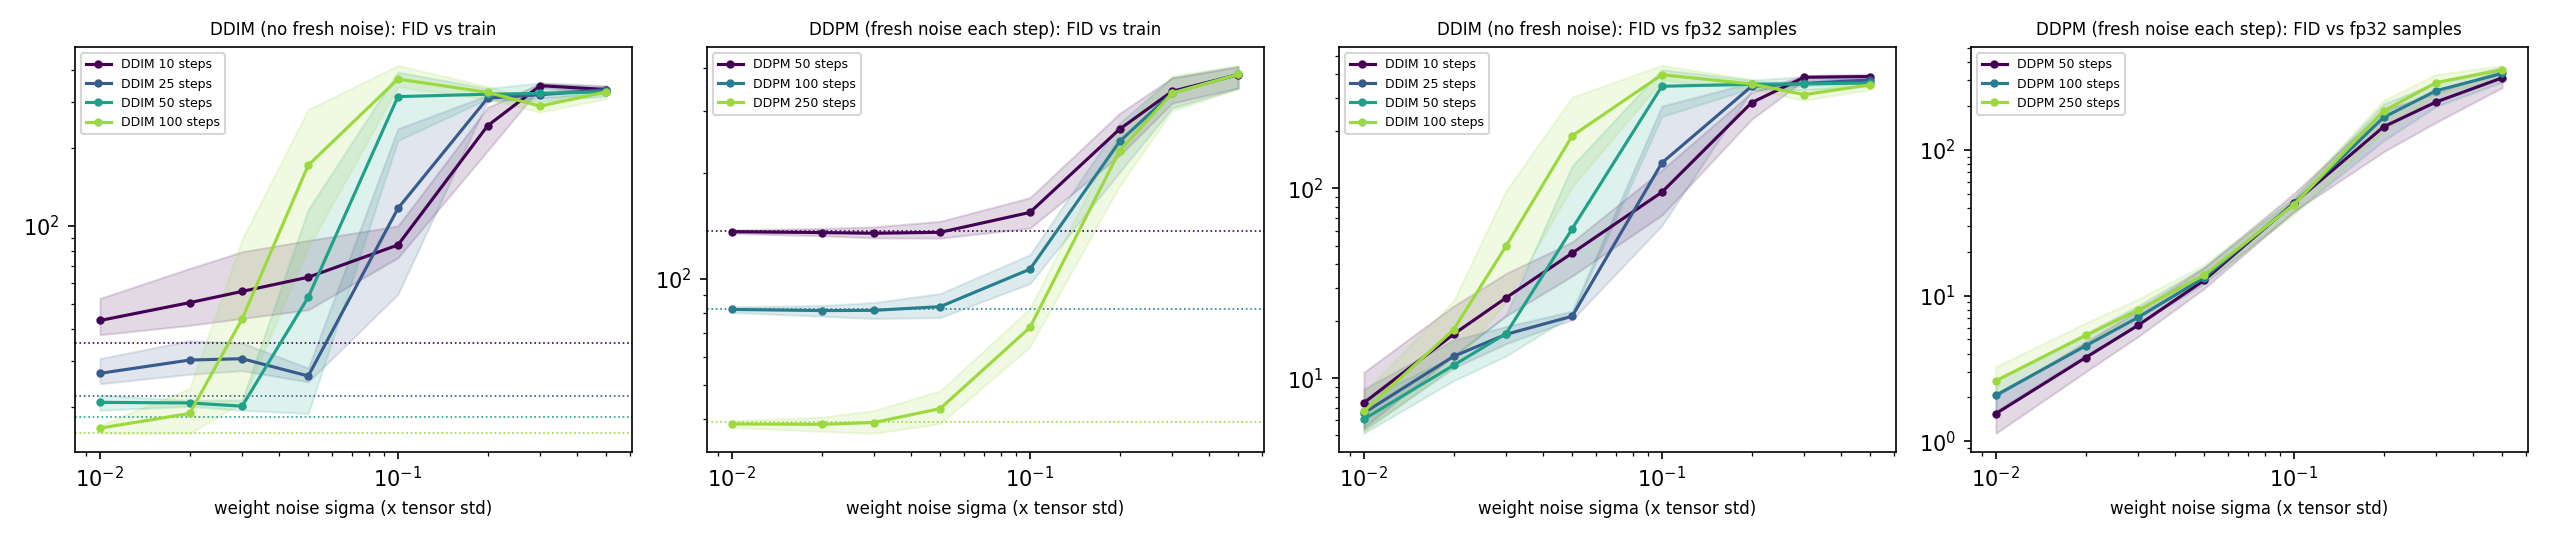
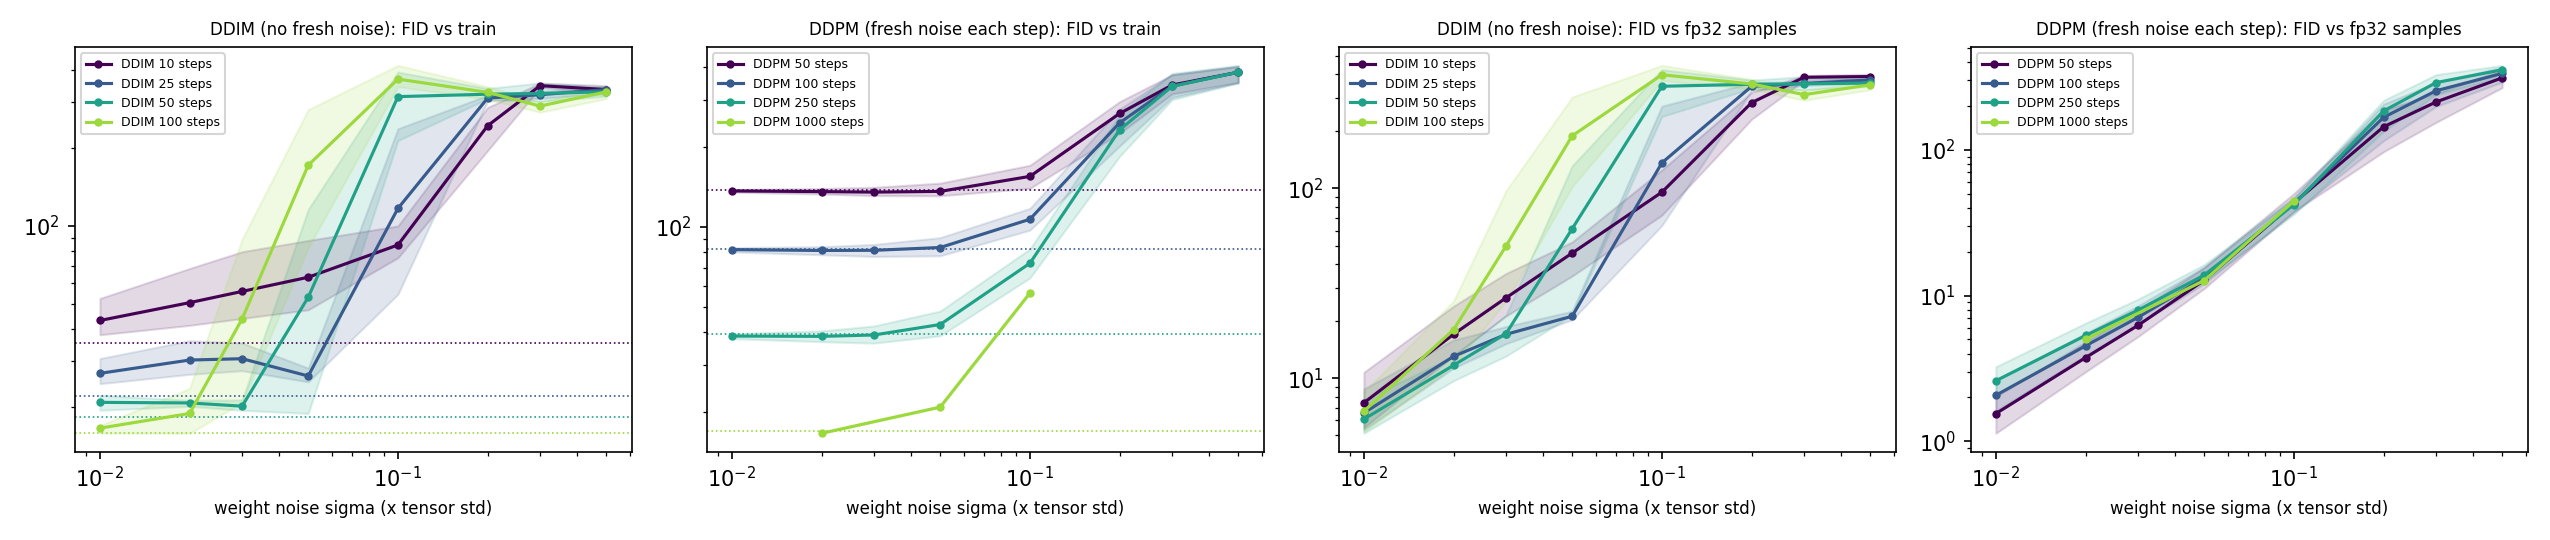
X6: DDPM-1000 native-sampler control

diff --git a/analyze_x6.py b/analyze_x6.py
@@ -132,7 +132,7 @@ def deqlm(rdir=None):
 def diff(rdir=None):
     rdir = Path(rdir or HERE / "results" / "transfer" / "babel")
     recs = []
-    for f in sorted(glob.glob(str(rdir / "diff_*.json"))):
+    for f in sorted(glob.glob(str(rdir / "diff*.json"))):
         recs += json.load(open(f))["records"]
     if not recs:
         print("no diff records in", rdir)
@@ -283,7 +283,7 @@ def difffig(rdir=None):
     import matplotlib.pyplot as plt
     rdir = Path(rdir or HERE / "results" / "transfer" / "babel")
     recs = []
-    for f in sorted(glob.glob(str(rdir / "diff_*.json"))):
+    for f in sorted(glob.glob(str(rdir / "diff*.json"))):
         recs += json.load(open(f))["records"]
     samplers = sorted({r["sampler"] for r in recs}, key=lambda s: (s[:4], int(s[4:])))
     sig = sorted({float(r["spec"][5:]) for r in recs if r["spec"].startswith("noise")})
